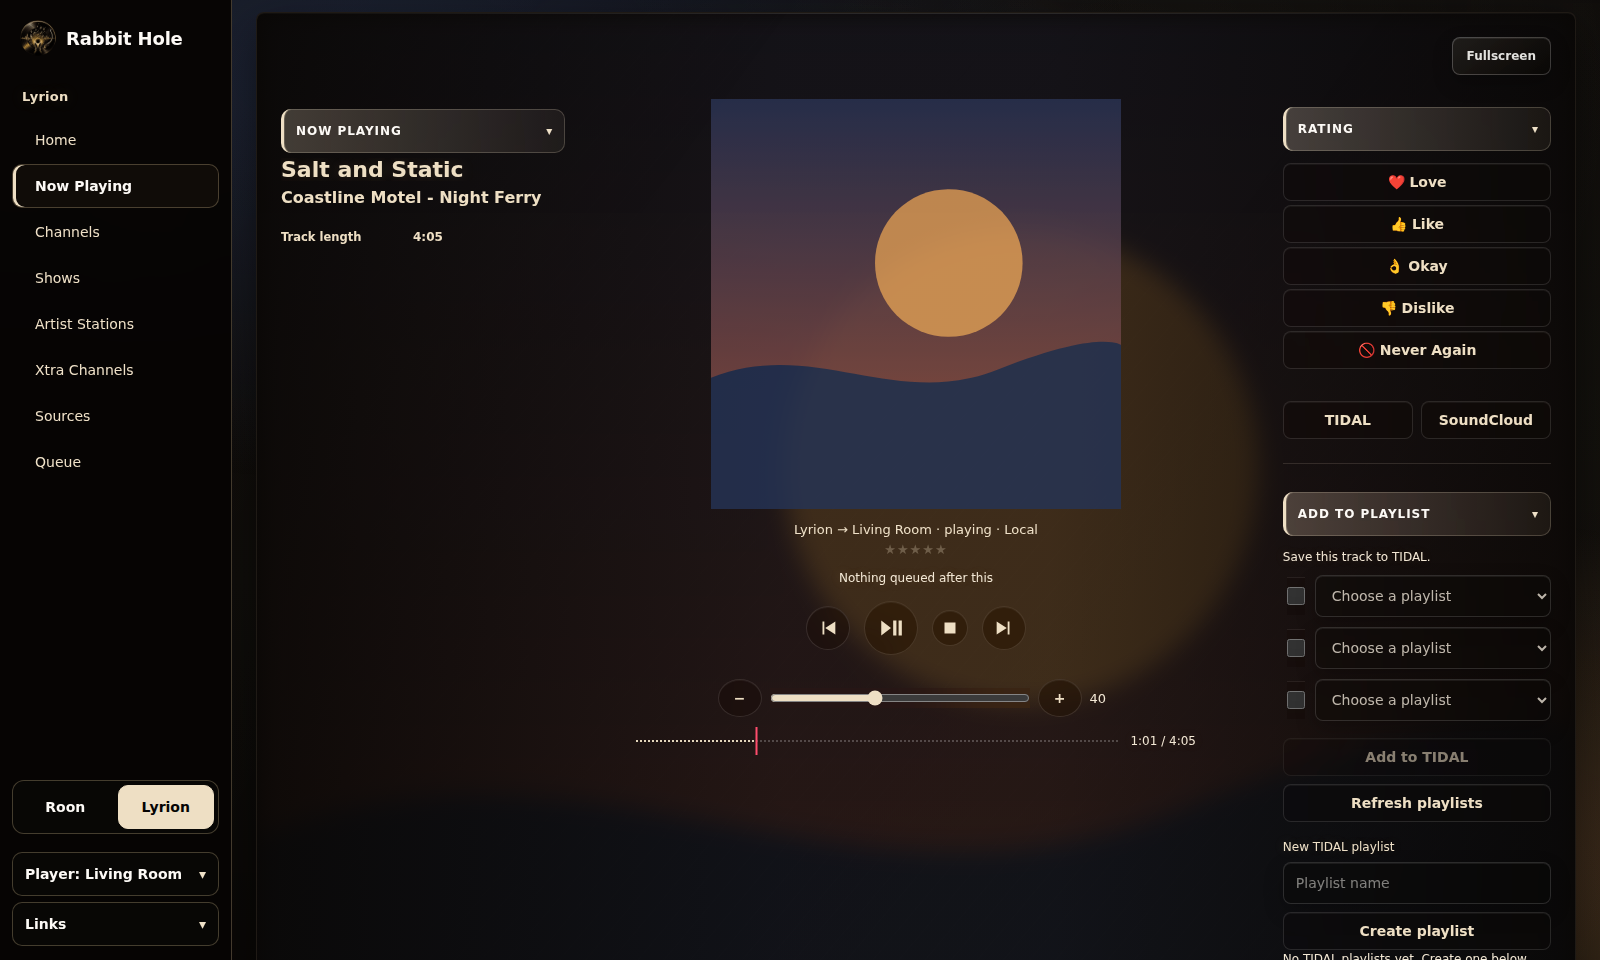
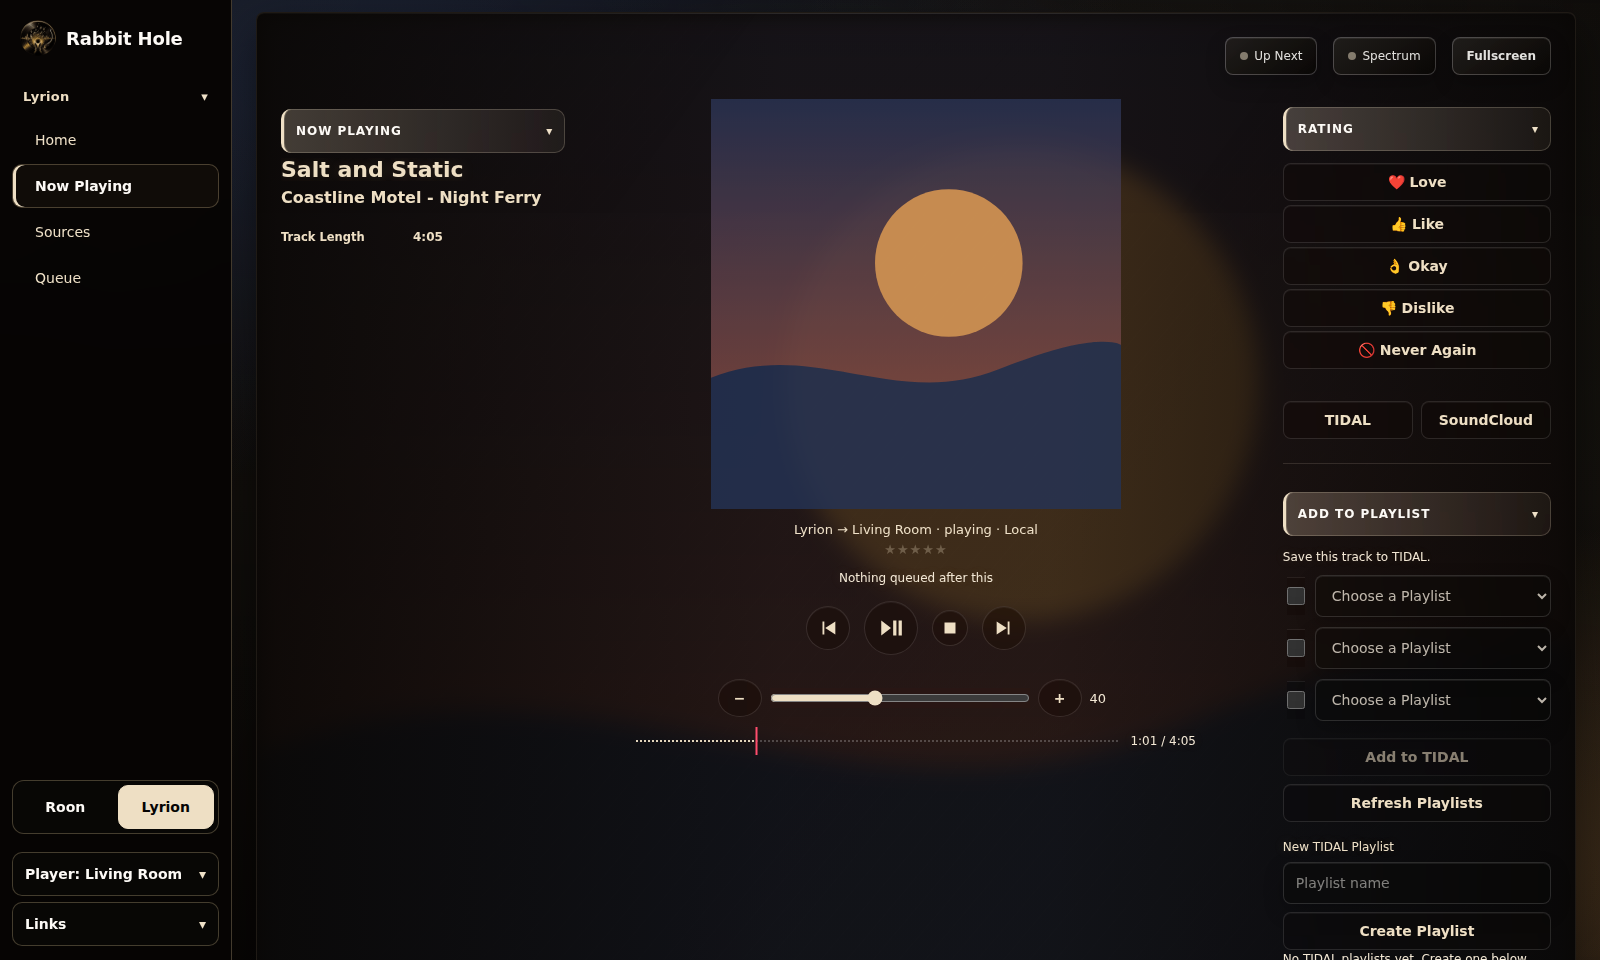
docs: refresh the README and feature tour screenshots
The Modern Roon, Lyrion and Mindshovel Blue shots now show the green
status lights and Title Case labels; Lyrion Home and Sources show the
new titles, folds, aligned rows and Thumbnails | List switches. The
README gains a System > Connections shot with live service lights and a
'One page style' entry under What this fork changes.

All six screenshots come from the fake-data preview server: made-up
albums, artists, rooms, players and addresses. None comes from a live
install.

diff --git a/README.md b/README.md
@@ -31,6 +31,12 @@ signal chain stacks into aligned rows:
   <img src="docs/screenshots/modern-fold.png" alt="Modern layout at 840 pixels wide: the left menu beside a one-column player with track details, album art, transport, volume, seek bar, the stacked signal chain and the panels" width="300">
 </p>
 
+System > **Connections** shows every service Rabbit Hole uses, whether it is working right
+now and what it is for. Services switched off in this deployment, such as Beatport and
+Sonic, read Off (see [Disabled features](#disabled-features-revisit-if-wanted)):
+
+![System Connections: a short explanation, then a Services panel of status cards for Roon, TIDAL Search, TIDAL Profile, Radio Art TIDAL, Last.fm, Local Model, Synapse, Rabbit Hole MCP, Beatport and Sonic, each with a green, amber or grey light, its status, what it is for and a detail line](docs/screenshots/connections.png)
+
 The Mindshovel Blue theme in the Modern layout:
 
 ![Modern Roon Now Playing in Mindshovel Blue: navy surfaces, white titles and values, grey-blue labels, the artist line in sky blue and mid-blue filled buttons](docs/screenshots/modern-blue.png)
@@ -111,6 +117,11 @@ offered upstream as pull requests.
   one-column player beside the menu. Classic stays the default.
 - **Layout:** foldable cards and panels, a header logo in the theme's colours,
   and a favicon.
+- **One page style:** every page opens with a plain-language explanation, every
+  list folds from its heading, lists with artwork have a Thumbnails | List
+  switch, long lists have a Sort, labels are Title Case, and status lights are
+  green, amber, red or grey in every theme. Features this deployment cannot run
+  hide themselves instead of showing dead controls.
 - **Unraid:** a published image and an Unraid template. The image hands its data
   folder to `PUID`/`PGID`, so a fresh appdata folder works without fixing
   permissions by hand. Without `PUID`/`PGID` it runs as `node` (1000), as upstream does.

diff --git a/docs/FEATURES.md b/docs/FEATURES.md
@@ -131,14 +131,15 @@ server under System:
 
 ![Lyrion Now Playing: player pills, track and file details, the System block with the Lyrion server, player, address and repeat and shuffle state, album art with the HQPlayer and HQP host lines, Up next, transport and seek bar, and rating, TIDAL and SoundCloud tools on the right](screenshots/lyrion-now-playing.png)
 
-A **Home** tab with new music, favorites and explore tiles:
+A **Home** tab with new music, favorites and explore tiles. Each shelf folds, and a
+Thumbnails | List switch turns the shelves into compact rows:
 
-![Lyrion Home tab: a New Music row of six album tiles, a Favorites row of four, and Explore tiles for Albums, Artists, New Music and Favorites](screenshots/lyrion-home.png)
+![Lyrion Home in the Modern layout: a short explanation under the Home title, a Thumbnails and List switch, and New Music, Favorites and Explore shelves that each fold, with made-up albums such as Low Tide Signals and Paper Lanterns](screenshots/lyrion-home.png)
 
-**Sources & Discovery** with foldable rows and the setup links moved into a
-Setup menu:
+**Sources & Discovery** with the setup links in a Setup menu, foldable Sources and
+Browse rows that share one column, and browse results as a list or as thumbnails:
 
-![Lyrion Sources and Discovery: a folded Setup menu, a row of source pills, a search box with Search source and Search all sources, and Back and Browse source buttons](screenshots/lyrion-sources.png)
+![Lyrion Sources and Discovery: a Setup menu, a Sources row of source pills, a search box with Search Source and Search All Sources, a Browse row with Back, Browse Source, the item count and a Thumbnails and List switch, and made-up results with Play, Play Next and Add buttons](screenshots/lyrion-sources.png)
 
 Lyrion tracks can be rated like Roon's, streamed tracks show their cover art,
 and one unanswered Roon call no longer freezes the Lyrion controls.
